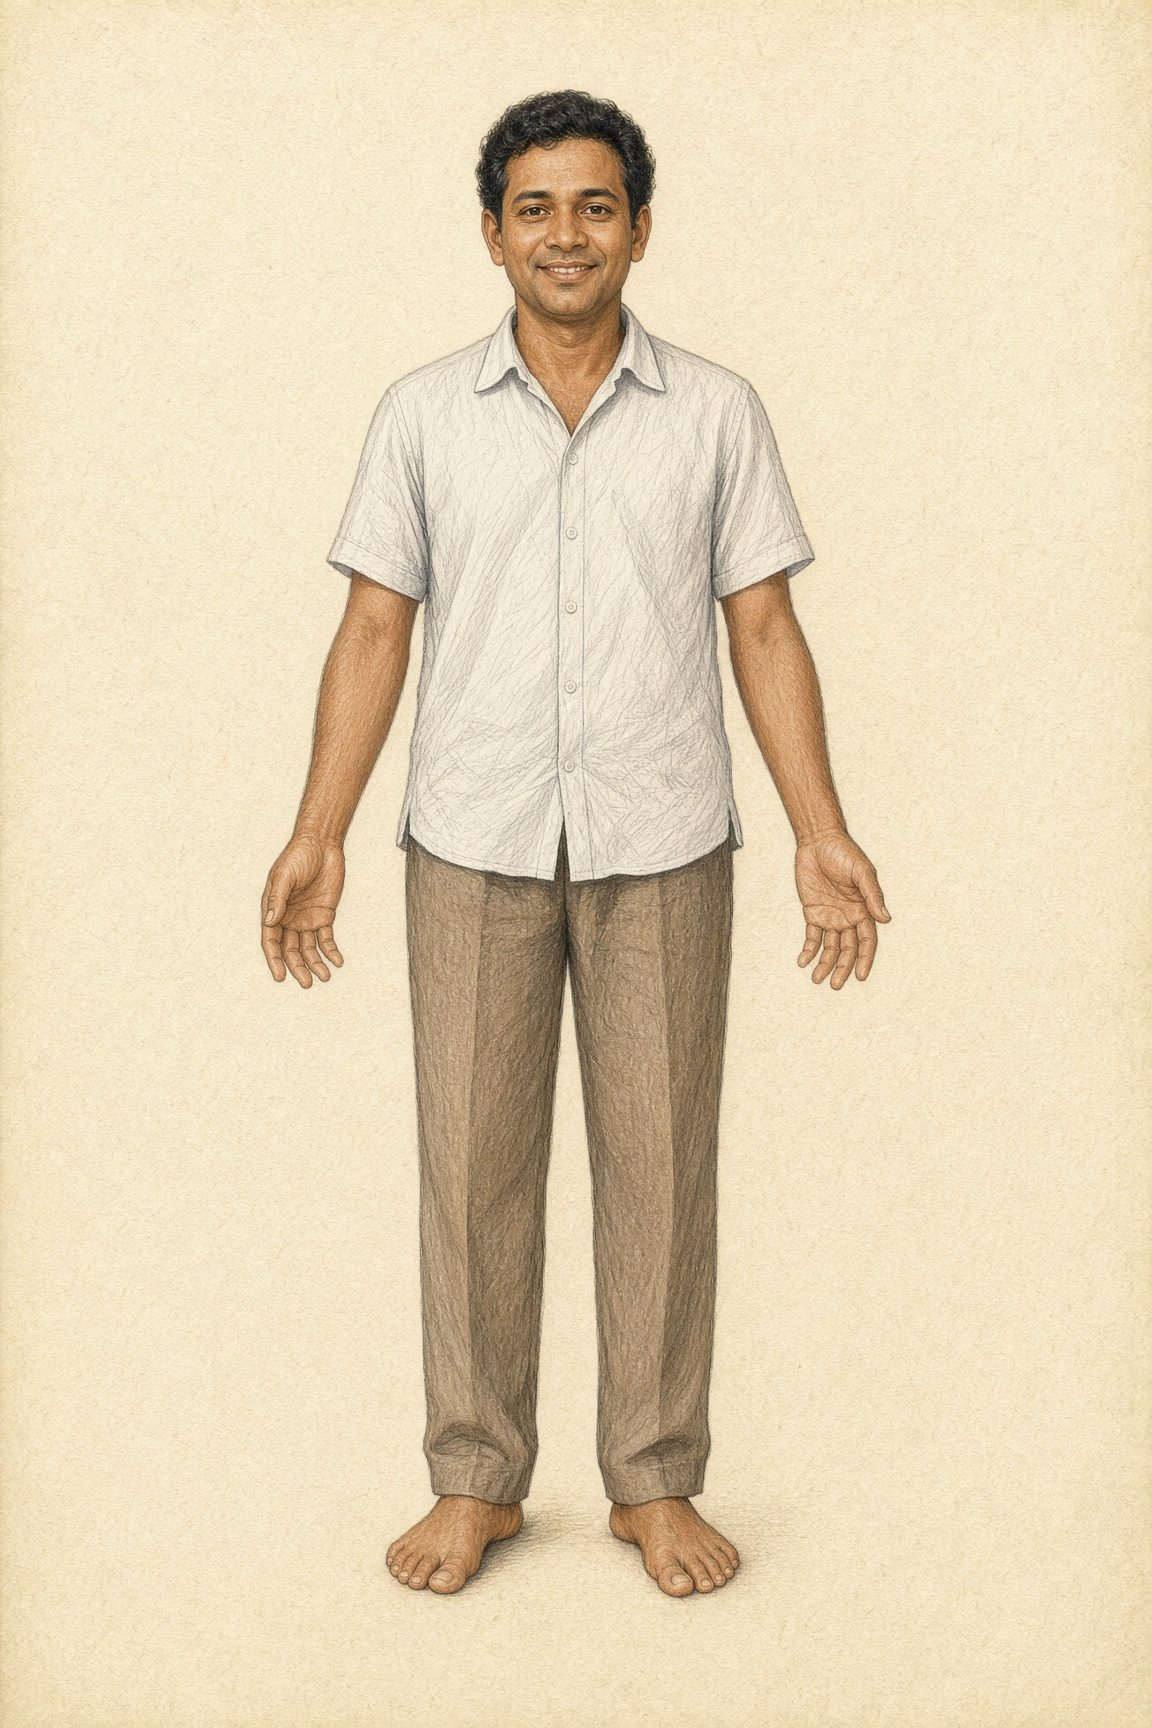
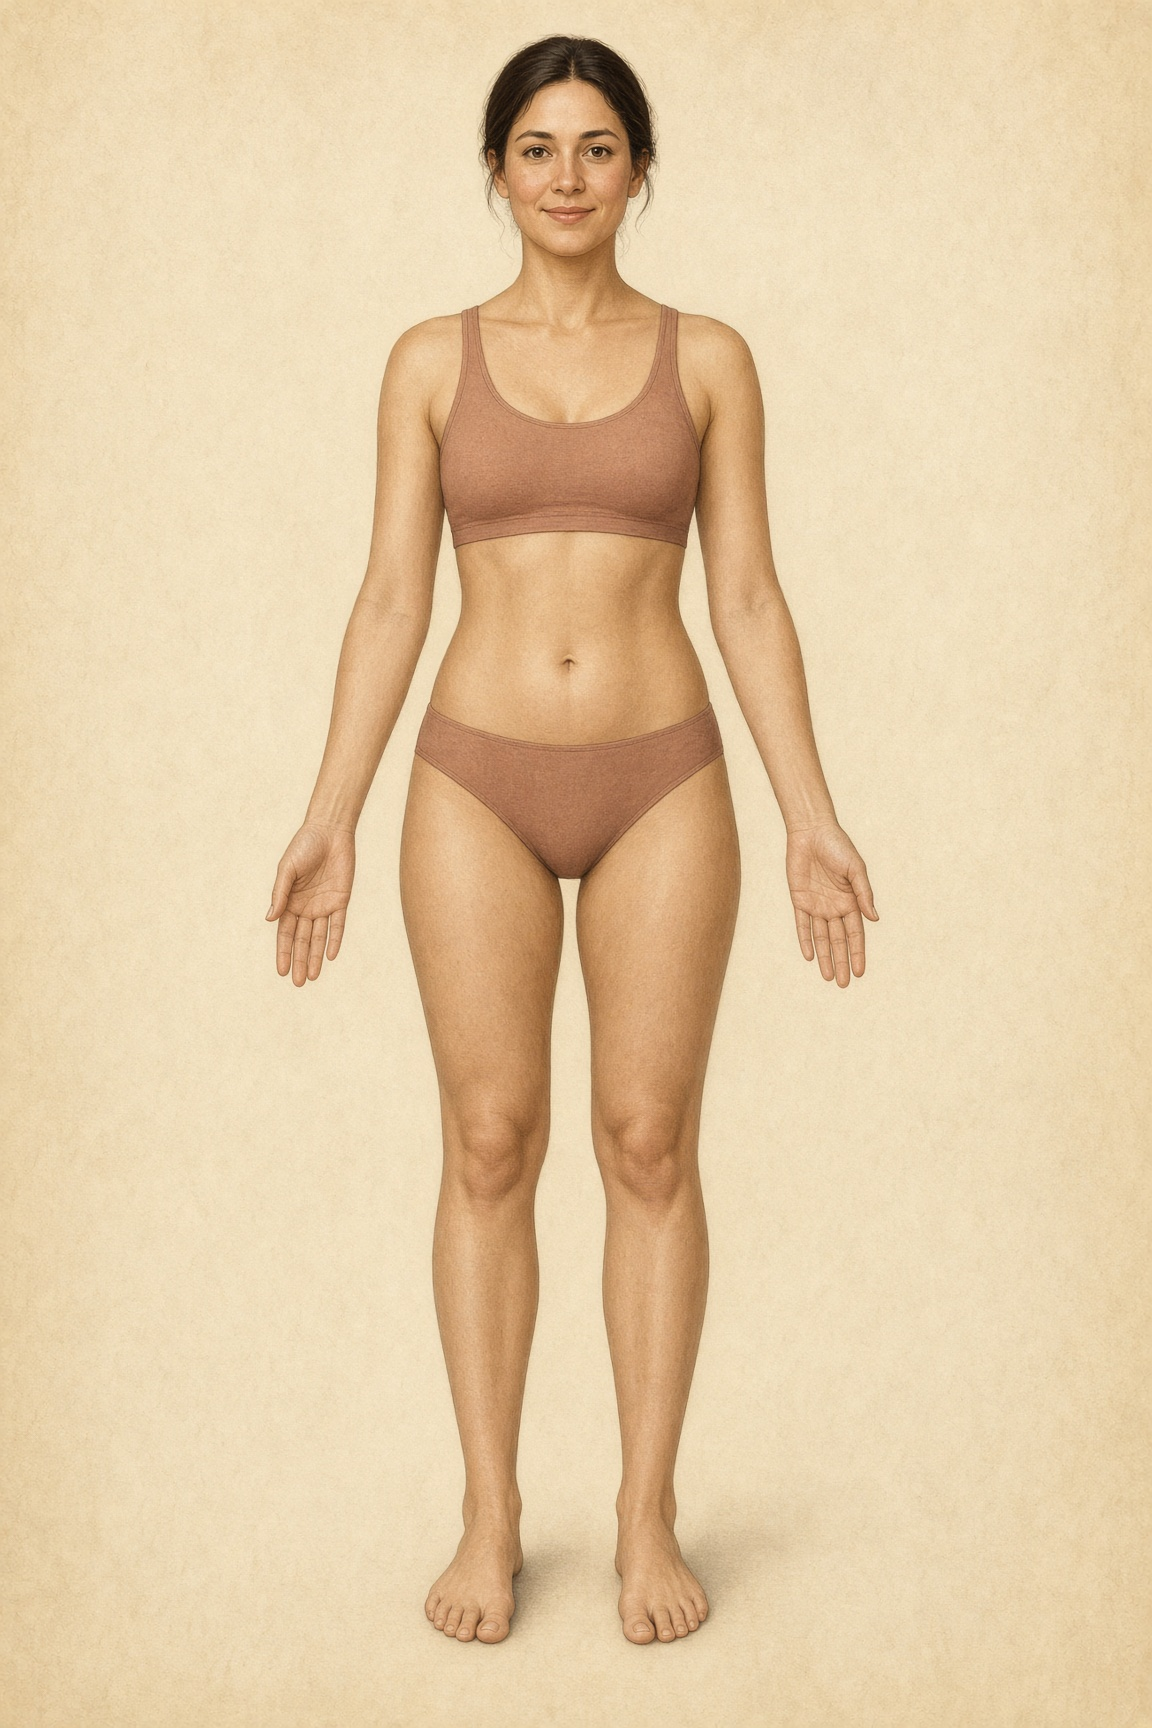
Label the face, organs, skeleton, and hand, and add more picture plates.

diff --git a/src/data/pictures.ts b/src/data/pictures.ts
@@ -245,43 +245,99 @@ export const PLATES: PicturePlate[] = [
     { en: "desk", x: 36, y: 66, side: "s" },
     { en: "chair", x: 72, y: 82, side: "n" },
   ]),
-  scene("body", "The body", "The body", "Point at a part. The card is the word for it.", [
-    { en: "hair", x: 50, y: 5.8, side: "c" },
-    { en: "eye", x: 47, y: 11.2, side: "c" },
-    { en: "ear", x: 41.5, y: 12, side: "c" },
-    { en: "nose", x: 50, y: 12.3, side: "c" },
-    { en: "mouth", x: 49.5, y: 13.8, side: "c" },
-    { en: "tooth", x: 52, y: 14.2, side: "c" },
-    { en: "shoulder", x: 62, y: 23, side: "c" },
-    { en: "heart", x: 55, y: 29, side: "c" },
-    { en: "shirt", x: 48, y: 34, side: "c" },
-    { en: "arm", x: 33, y: 36, side: "c" },
-    { en: "stomach", x: 50, y: 42, side: "c" },
-    { en: "hand", x: 27, y: 50, side: "c" },
-    { en: "leg", x: 44, y: 60, side: "c" },
-    { en: "knee", x: 44, y: 70, side: "c" },
-    { en: "foot", x: 42, y: 90.5, side: "c" },
+  scene("body", "The body", "The body", "In underwear, head to toe. Point at a part.", [
+    { en: "hair", x: 50, y: 6, side: "c" },
+    { en: "ear", x: 41, y: 13, side: "c" },
+    { en: "neck", x: 50, y: 22, side: "c" },
+    { en: "shoulder", x: 64, y: 28, side: "c" },
+    { en: "chest", x: 50, y: 36, side: "c" },
+    { en: "arm", x: 32, y: 38, side: "c" },
+    { en: "elbow", x: 22, y: 46, side: "c" },
+    { en: "waist", x: 62, y: 44, side: "c" },
+    { en: "navel", x: 50, y: 48, side: "c" },
+    { en: "wrist", x: 18, y: 55, side: "c" },
+    { en: "hip", x: 62, y: 57, side: "c" },
+    { en: "hand", x: 16, y: 62, side: "c" },
+    { en: "thigh", x: 40, y: 68, side: "c" },
+    { en: "knee", x: 43, y: 76, side: "c" },
+    { en: "ankle", x: 43, y: 90, side: "c" },
+    { en: "foot", x: 42, y: 96, side: "c" },
   ], true),
-  grid("face", "The face", "The body", "Forehead to chin, five by five. Two squares are the nostril.", 0.4, [
-    "forehead", "eyebrow", "eyelid", "eyelash", "eye",
-    "ear", "nose", "nostril", "cheek", "lip",
-    "mouth", "tooth", "tongue", "chin", "jaw",
-    "beard", "moustache", "neck", "throat", "hair",
-    "temple", "nostril", "freckle", "wrinkle", "iris",
-  ]),
-  grid("organs", "Inside the body", "The body", "Organs, bone, blood, and a few joints. The last square is the knee.", 1.6, [
-    "brain", "heart", "lung", "liver", "stomach",
-    "kidney", "intestine", "bladder", "pancreas", "spleen",
-    "muscle", "bone", "rib", "spine", "skull",
-    "skin", "blood", "vein", "artery", "windpipe",
-    "shoulder", "elbow", "wrist", "hip", "knee",
-  ]),
-  grid("limbs", "Hands, feet, and the trunk", "The body", "What the first body plate leaves out.", 1.2, [
-    "neck", "chest", "back", "waist", "hip",
-    "elbow", "wrist", "palm", "thumb", "finger",
-    "fingernail", "ankle", "heel", "toe", "toenail",
-    "thigh", "knee", "calf", "armpit", "belly",
-    "chin", "cheek", "eyebrow", "tongue", "lip",
+  scene("face", "The face", "The body", "One smile. Point at a part of the face.", [
+    { en: "hair", x: 50, y: 10, side: "c" },
+    { en: "forehead", x: 50, y: 22, side: "c" },
+    { en: "eyebrow", x: 38, y: 32, side: "c" },
+    { en: "temple", x: 28, y: 30, side: "c" },
+    { en: "eyelid", x: 62, y: 36, side: "c" },
+    { en: "eyelash", x: 38, y: 39, side: "c" },
+    { en: "eye", x: 62, y: 40, side: "c" },
+    { en: "ear", x: 18, y: 40, side: "c" },
+    { en: "cheek", x: 72, y: 44, side: "c" },
+    { en: "nose", x: 50, y: 46, side: "c" },
+    { en: "nostril", x: 55, y: 49, side: "c" },
+    { en: "lip", x: 50, y: 54, side: "c" },
+    { en: "tooth", x: 50, y: 58, side: "c" },
+    { en: "jaw", x: 68, y: 64, side: "c" },
+    { en: "chin", x: 50, y: 71, side: "c" },
+    { en: "neck", x: 50, y: 84, side: "c" },
+  ], true),
+  scene("hand", "The hand", "The body", "Thumb to little finger, then the palm and the wrist.", [
+    { en: "nail", x: 50, y: 6, side: "c" },
+    { en: "middle finger", x: 50, y: 20, side: "c" },
+    { en: "index finger", x: 34, y: 24, side: "c" },
+    { en: "ring finger", x: 66, y: 24, side: "c" },
+    { en: "little finger", x: 80, y: 32, side: "c" },
+    { en: "knuckle", x: 50, y: 46, side: "c" },
+    { en: "thumb", x: 16, y: 50, side: "c" },
+    { en: "palm", x: 50, y: 64, side: "c" },
+    { en: "wrist", x: 50, y: 88, side: "c" },
+  ], true),
+  scene("foot", "The foot", "The body", "From the toes to the heel.", [
+    { en: "toenail", x: 8, y: 60, side: "c" },
+    { en: "big toe", x: 16, y: 63, side: "c" },
+    { en: "toe", x: 24, y: 56, side: "c" },
+    { en: "instep", x: 44, y: 50, side: "c" },
+    { en: "arch", x: 48, y: 62, side: "c" },
+    { en: "ankle", x: 76, y: 38, side: "c" },
+    { en: "heel", x: 86, y: 60, side: "c" },
+  ], true),
+  scene("organs", "Inside the body", "The body", "The organs where they sit. Point at one.", [
+    { en: "brain", x: 50, y: 12, side: "c" },
+    { en: "windpipe", x: 50, y: 26, side: "c" },
+    { en: "lung", x: 36, y: 34, side: "c" },
+    { en: "rib", x: 26, y: 34, side: "c" },
+    { en: "heart", x: 52, y: 36, side: "c" },
+    { en: "liver", x: 34, y: 46, side: "c" },
+    { en: "stomach", x: 64, y: 45, side: "c" },
+    { en: "spleen", x: 70, y: 44, side: "c" },
+    { en: "pancreas", x: 54, y: 50, side: "c" },
+    { en: "kidney", x: 30, y: 66, side: "c" },
+    { en: "intestine", x: 50, y: 64, side: "c" },
+    { en: "bladder", x: 50, y: 80, side: "c" },
+  ], true),
+  scene("skeleton", "The skeleton", "The body", "The bones, from the skull to the ankle.", [
+    { en: "skull", x: 50, y: 8, side: "c" },
+    { en: "jaw", x: 50, y: 16, side: "c" },
+    { en: "collarbone", x: 40, y: 21, side: "c" },
+    { en: "shoulder", x: 32, y: 23, side: "c" },
+    { en: "breastbone", x: 50, y: 32, side: "c" },
+    { en: "rib", x: 38, y: 36, side: "c" },
+    { en: "spine", x: 50, y: 42, side: "c" },
+    { en: "elbow", x: 22, y: 44, side: "c" },
+    { en: "wrist", x: 16, y: 54, side: "c" },
+    { en: "pelvis", x: 50, y: 58, side: "c" },
+    { en: "hip", x: 40, y: 56, side: "c" },
+    { en: "knee", x: 42, y: 78, side: "c" },
+    { en: "shin", x: 42, y: 85, side: "c" },
+    { en: "ankle", x: 42, y: 92, side: "c" },
+  ], true),
+  scene("feelings", "Feelings", "The body", "Six whole faces. Left to right.", [
+    { en: "happy", x: 8, y: 42, side: "s" },
+    { en: "sad", x: 25, y: 42, side: "s" },
+    { en: "angry", x: 42, y: 42, side: "s" },
+    { en: "surprised", x: 58, y: 42, side: "s" },
+    { en: "afraid", x: 75, y: 42, side: "s" },
+    { en: "tired", x: 92, y: 42, side: "s" },
   ]),
   grid("food", "Market goods", "Plates", "Five by five. Fruit, vegetables, and a few foods.", 3, [
     "apple", "banana", "orange", "lemon", "pear",
@@ -433,6 +489,74 @@ export const PLATES: PicturePlate[] = [
     { en: "branch", x: 84, y: 84, side: "n" },
     { en: "soil", x: 14, y: 88, side: "s" },
     { en: "seed", x: 63, y: 87, side: "n" },
+  ]),
+  scene("weather", "The weather", "Outside", "Sun, rain, wind, and what they leave behind.", [
+    { en: "sun", x: 12, y: 16, side: "s" },
+    { en: "cloud", x: 48, y: 18, side: "s" },
+    { en: "lightning", x: 64, y: 22, side: "n" },
+    { en: "rainbow", x: 26, y: 34, side: "e" },
+    { en: "rain", x: 44, y: 42, side: "w" },
+    { en: "mist", x: 16, y: 52, side: "e" },
+    { en: "wind", x: 86, y: 32, side: "w" },
+    { en: "snow", x: 93, y: 20, side: "w" },
+    { en: "umbrella", x: 70, y: 60, side: "n" },
+    { en: "puddle", x: 38, y: 78, side: "n" },
+  ]),
+  scene("beach", "The beach", "Outside", "Sand, sea, and what is lying on the shore.", [
+    { en: "towel", x: 12, y: 68, side: "n" },
+    { en: "shell", x: 24, y: 78, side: "n" },
+    { en: "boat", x: 32, y: 55, side: "n" },
+    { en: "crab", x: 42, y: 80, side: "s" },
+    { en: "sandcastle", x: 50, y: 74, side: "n" },
+    { en: "wave", x: 60, y: 46, side: "s" },
+    { en: "bird", x: 64, y: 20, side: "s" },
+    { en: "sea", x: 78, y: 52, side: "n" },
+    { en: "sun", x: 86, y: 12, side: "s" },
+    { en: "rock", x: 90, y: 62, side: "w" },
+    { en: "sand", x: 55, y: 90, side: "n" },
+  ]),
+  scene("forest", "The forest", "Outside", "A path, a tree, and what lives beside them.", [
+    { en: "tree", x: 14, y: 48, side: "e" },
+    { en: "bird", x: 28, y: 26, side: "s" },
+    { en: "leaf", x: 24, y: 44, side: "n" },
+    { en: "mushroom", x: 32, y: 68, side: "n" },
+    { en: "moss", x: 40, y: 78, side: "n" },
+    { en: "path", x: 48, y: 84, side: "n" },
+    { en: "deer", x: 64, y: 50, side: "n" },
+    { en: "flower", x: 88, y: 64, side: "w" },
+    { en: "stream", x: 74, y: 74, side: "n" },
+    { en: "stone", x: 84, y: 78, side: "w" },
+  ]),
+  scene("insects", "Small creatures", "Outside", "Each one whole. Point at it.", [
+    { en: "butterfly", x: 15, y: 30, side: "s" },
+    { en: "ladybug", x: 36, y: 28, side: "s" },
+    { en: "bee", x: 62, y: 30, side: "s" },
+    { en: "grasshopper", x: 84, y: 32, side: "s" },
+    { en: "ant", x: 16, y: 70, side: "n" },
+    { en: "spider", x: 38, y: 68, side: "n" },
+    { en: "snail", x: 62, y: 70, side: "n" },
+    { en: "caterpillar", x: 84, y: 68, side: "n" },
+  ]),
+  scene("sports", "Sports", "Play", "A ball, a goal, and the things beside them.", [
+    { en: "ball", x: 16, y: 68, side: "n" },
+    { en: "racket", x: 28, y: 48, side: "n" },
+    { en: "goal", x: 36, y: 38, side: "s" },
+    { en: "net", x: 42, y: 55, side: "n" },
+    { en: "bat", x: 58, y: 60, side: "n" },
+    { en: "bicycle", x: 72, y: 58, side: "n" },
+    { en: "helmet", x: 84, y: 46, side: "n" },
+    { en: "whistle", x: 90, y: 62, side: "w" },
+    { en: "medal", x: 78, y: 74, side: "n" },
+  ]),
+  scene("music", "Music", "Music", "A room of instruments. Point at one.", [
+    { en: "piano", x: 14, y: 52, side: "e" },
+    { en: "guitar", x: 28, y: 44, side: "n" },
+    { en: "violin", x: 40, y: 56, side: "n" },
+    { en: "flute", x: 46, y: 68, side: "n" },
+    { en: "music", x: 55, y: 36, side: "s" },
+    { en: "drum", x: 62, y: 62, side: "n" },
+    { en: "trumpet", x: 74, y: 46, side: "n" },
+    { en: "microphone", x: 88, y: 40, side: "w" },
   ]),
 ];
 

diff --git a/src/routes/pictures.tsx b/src/routes/pictures.tsx
@@ -13,22 +13,30 @@ import {
   Coffee,
   Construction,
   Flower2,
+  Footprints,
   Hammer,
   Hand,
   HardHat,
   HeartPulse,
   Leaf,
+  Medal,
+  Music,
   PersonStanding,
   ScanFace,
   Shirt,
   Shovel,
+  Smile,
   Stethoscope,
   Store,
   Sun,
   Trees,
+  Umbrella,
   UtensilsCrossed,
   Volume2,
   Wrench,
+  Bug,
+  Bone,
+  CloudSun,
   Plus,
   type LucideIcon,
 } from "lucide-react";
@@ -65,8 +73,11 @@ const ICONS: Record<string, LucideIcon> = {
   office: Briefcase,
   body: PersonStanding,
   face: ScanFace,
+  hand: Hand,
+  foot: Footprints,
   organs: Brain,
-  limbs: Hand,
+  skeleton: Bone,
+  feelings: Smile,
   food: Apple,
   clothes: Shirt,
   animals: Trees,
@@ -85,6 +96,12 @@ const ICONS: Record<string, LucideIcon> = {
   "garden-tools": Shovel,
   garden: Flower2,
   plant: Leaf,
+  weather: CloudSun,
+  beach: Umbrella,
+  forest: Trees,
+  insects: Bug,
+  sports: Medal,
+  music: Music,
 };
 
 const SHIFT: Record<Side, string> = {
@@ -236,7 +253,7 @@ function PicturesPage() {
           </div>
           {picking && (
             <div id="picture-plates" className="max-h-[70dvh] overflow-y-auto border-t border-line px-4 py-3 md:px-6">
-              <p className="mb-3 text-sm text-muted">Rooms, the body, food, trades, and five-by-five plates. This list closes when you pick one.</p>
+              <p className="mb-3 text-sm text-muted">Rooms, the body, weather, music, food, and trades. This list closes when you pick one.</p>
               <div className="mx-auto flex max-w-6xl flex-col gap-3">
                 {PICTURE_SECTIONS.map((section) => (
                   <div key={section}>
